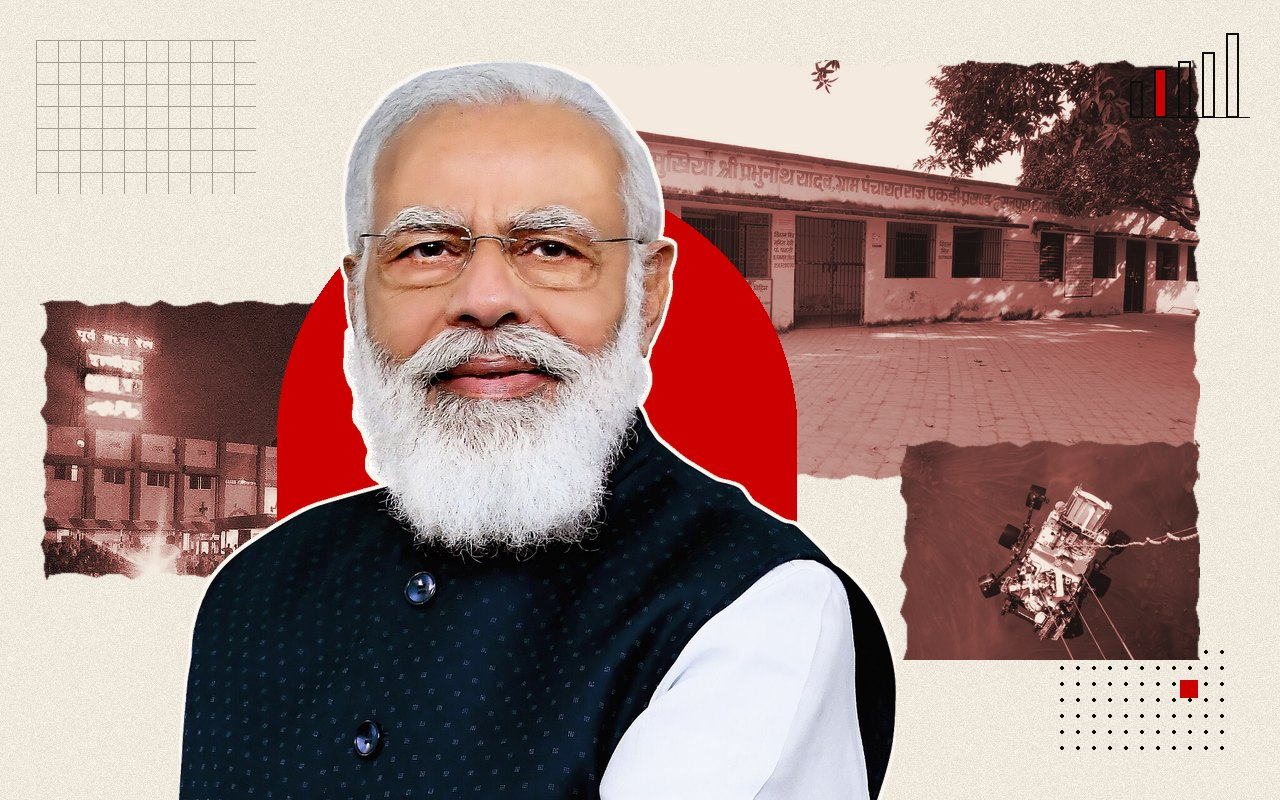
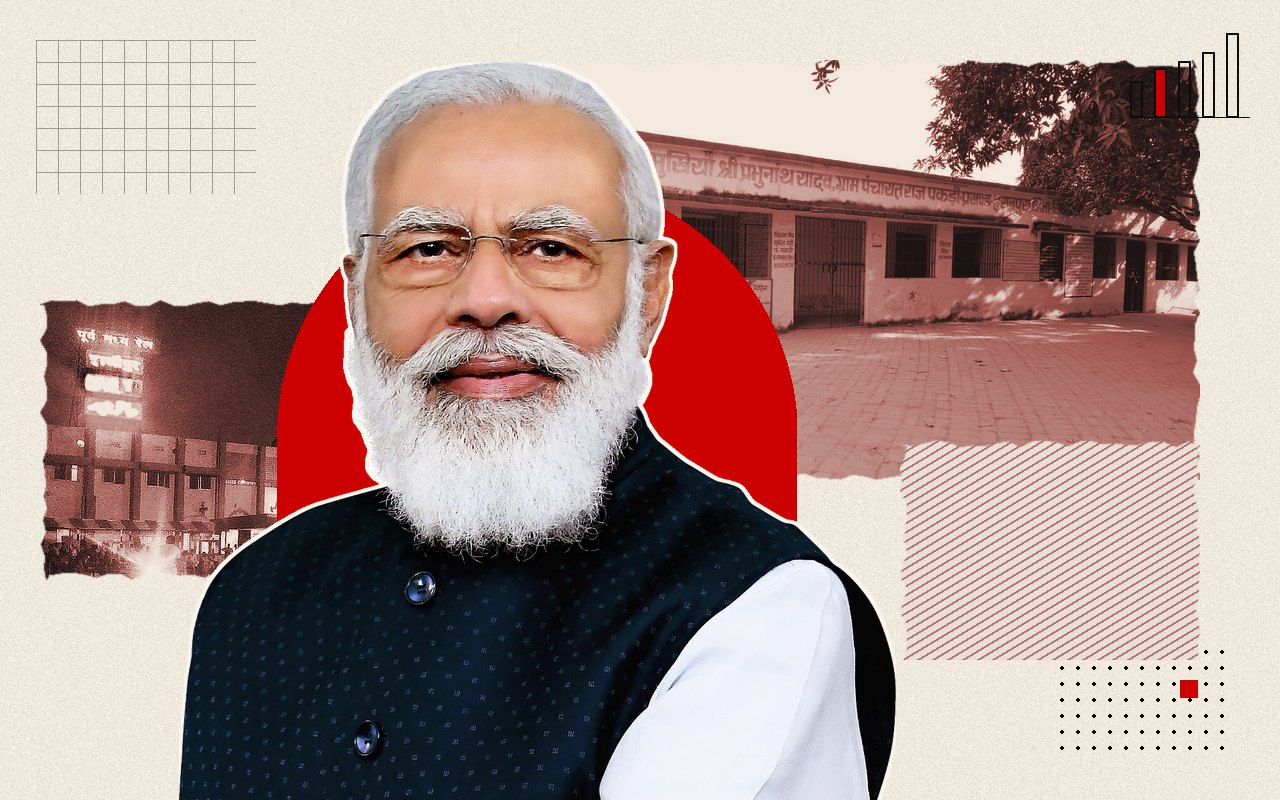
Hourly 14:00 IST: collage fix for the Nitish Setu lead
The collage placed a NASA Mars rover tile behind Modi because the space rule in treat_photo.py matched "launches" in the headline. Removed bare "launch" from the space rule's story words (test_collage.py: 38 of 40 hold, 0 broken) and remade the collage with two Bihar scenes.

Claude-Session: https://claude.ai/code/session_01C3zerTS1kpKXe7uggHwJvk

Changed region(s): [[0.6875, 0.5312, 0.9375, 0.8438]]

diff --git a/newsroom/scripts/treat_photo.py b/newsroom/scripts/treat_photo.py
@@ -183,7 +183,7 @@ INSTITUTION = [  # story words -> Indian institutions and settings that belong w
 ]
 UNIVERSAL = [  # settings that fit a story anywhere in the world
     (r'cricket|Test|ODI|T20|IPL', r'cricket|stadium'), (r'tennis|ATP|WTA|Masters|Open\b', r'tennis'), (r'badminton|shuttler', r'badminton|shuttle'), (r'hockey|football|athlet|Olympic|chess|shoot|Formula|F1\b|Grand Prix', r'stadium|circuit|sports arena'),
-    (r'ISRO|NASA|rocket|launch|satellite|space|orbit|moon|Mars', r'rocket|launch|satellite|space|ISRO|NASA'),
+    (r'ISRO|NASA|rocket|satellite|space|orbit|moon|Mars', r'rocket|launch|satellite|space|ISRO|NASA'),   # no bare 'launch' in the story words: 'launches Bihar projects' put a Mars rover behind Modi (hourly-14, November 21)
     (r'semiconductor|Nvidia|chipmaker|chip stocks|data centre|TSMC|ASML', r'semiconductor|chip|wafer|data cent|server'),
     (r'oil|crude|Brent|OPEC|refiner|gas\b|LNG', r'oil|refinery|tanker|OPEC|LNG'), (r'ship|vessel|port|shipping|Hormuz|Red Sea', r'port|ship|vessel|tanker'),
 ]
